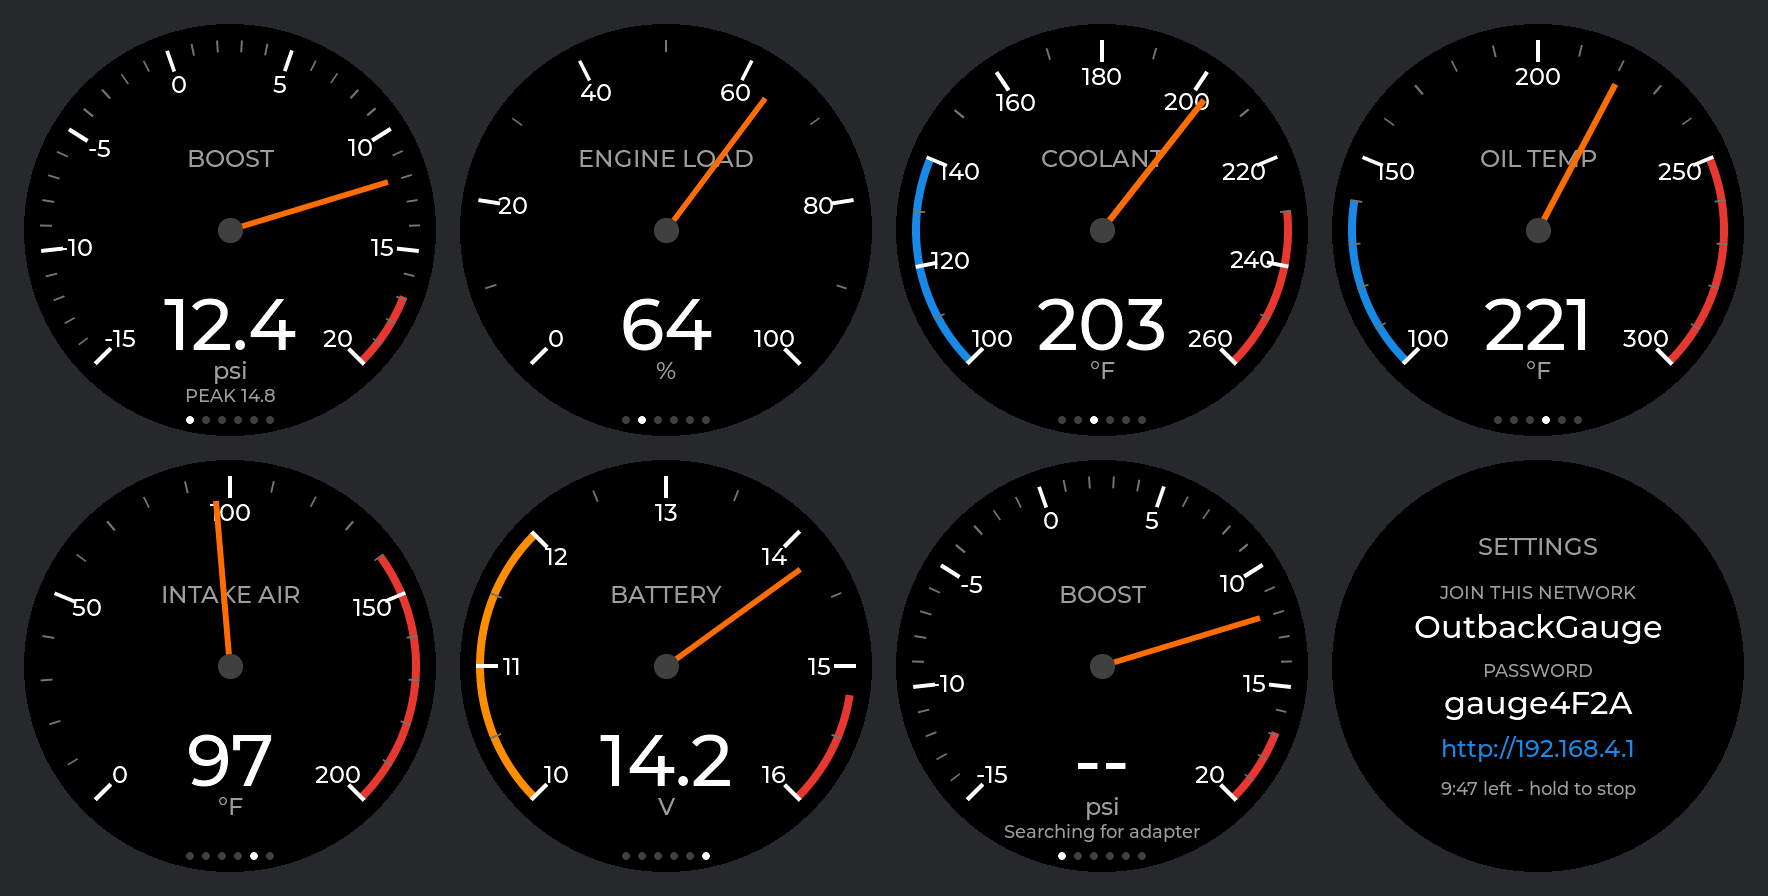
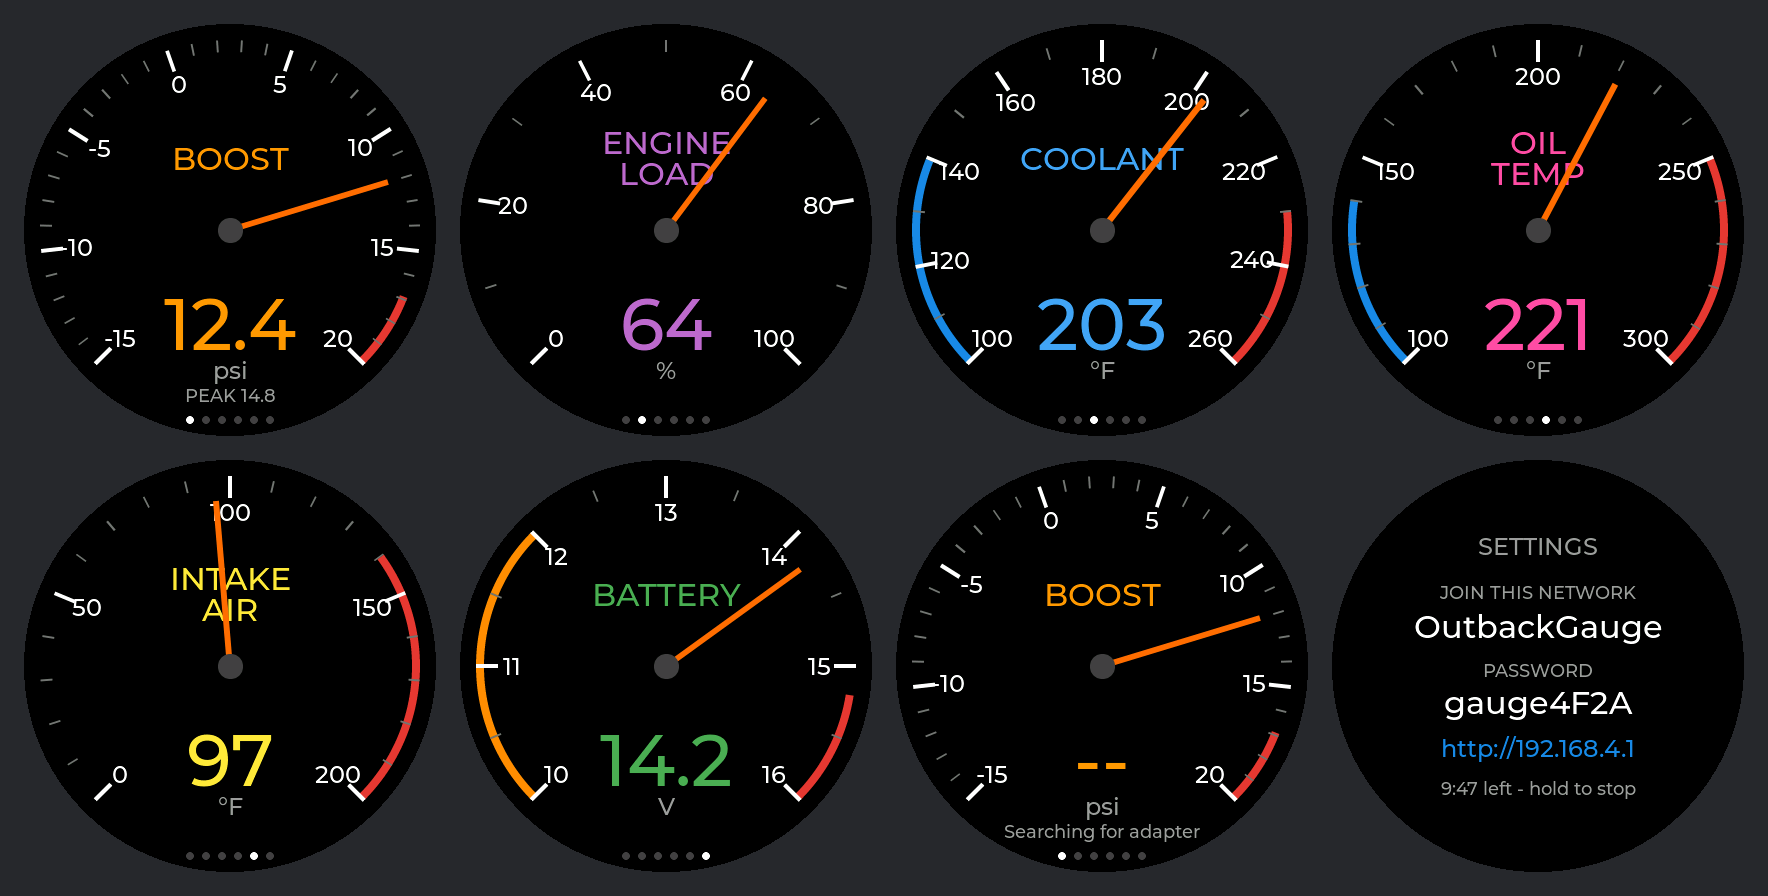
Colour each gauge's readout and title; 0.5 s double tap
Boost orange, load purple, coolant blue, oil pink, intake yellow, battery
green; red stays for warnings. Titles go to 32 px, on two rows where long.

diff --git a/src/ui.cpp b/src/ui.cpp
@@ -17,6 +17,8 @@ namespace {
 
 constexpr lv_coord_t C = LCD_SIZE / 2;  // screen center
 constexpr uint32_t WHITE = 0xFFFFFF, GREY = 0x9E9E9E, RED = 0xE53935, AMBER = 0xFB8C00, BLUE = 0x1E88E5;
+constexpr uint32_t TEXT_GREEN = 0x4CAF50, TEXT_ORANGE = 0xFF9800, TEXT_BLUE = 0x42A5F5, TEXT_PINK = 0xFF4FA3,
+                   TEXT_YELLOW = 0xFFEB3B, TEXT_PURPLE = 0xBA68C8;
 #define DEG "\xC2\xB0"
 
 // A coloured arc on the scale. One endpoint can be driven by a setting, so the
@@ -34,14 +36,15 @@ struct GaugeCfg {
   int ticks, majorEvery;  // tick count across the whole scale, label every Nth tick
   Band bands[2];
   Focus focus;
+  uint32_t color;  // the readout's colour; red is kept for a warning
 };
 
-const GaugeCfg BOOST = {"BOOST", "psi", "%.1f", -15, 20, 1, 36, 5, {{0, 20, RED, &Settings::boostWarnPsi}, {}}, Focus::Boost};
-const GaugeCfg LOAD = {"ENGINE LOAD", "%", "%.0f", 0, 100, 1, 11, 2, {{}, {}}, Focus::Load};
-const GaugeCfg COOLANT = {"COOLANT", DEG "F", "%.0f", 100, 260, 1, 17, 2, {{100, 140, BLUE}, {0, 260, RED, &Settings::coolantWarnF}}, Focus::Coolant};
-const GaugeCfg OIL = {"OIL TEMP", DEG "F", "%.0f", 100, 300, 1, 21, 5, {{100, 140, BLUE}, {0, 300, RED, &Settings::oilWarnF}}, Focus::Oil};
-const GaugeCfg INTAKE = {"INTAKE AIR", DEG "F", "%.0f", 0, 200, 1, 21, 5, {{0, 200, RED, &Settings::intakeWarnF}, {}}, Focus::Intake};
-const GaugeCfg VOLTS = {"BATTERY", "V", "%.1f", 10, 16, 10, 13, 2, {{10, 0, AMBER, &Settings::voltsLowWarn, false}, {0, 16, RED, &Settings::voltsHighWarn}}, Focus::Volts};
+const GaugeCfg BOOST = {"BOOST", "psi", "%.1f", -15, 20, 1, 36, 5, {{0, 20, RED, &Settings::boostWarnPsi}, {}}, Focus::Boost, TEXT_ORANGE};
+const GaugeCfg LOAD = {"ENGINE\nLOAD", "%", "%.0f", 0, 100, 1, 11, 2, {{}, {}}, Focus::Load, TEXT_PURPLE};
+const GaugeCfg COOLANT = {"COOLANT", DEG "F", "%.0f", 100, 260, 1, 17, 2, {{100, 140, BLUE}, {0, 260, RED, &Settings::coolantWarnF}}, Focus::Coolant, TEXT_BLUE};
+const GaugeCfg OIL = {"OIL\nTEMP", DEG "F", "%.0f", 100, 300, 1, 21, 5, {{100, 140, BLUE}, {0, 300, RED, &Settings::oilWarnF}}, Focus::Oil, TEXT_PINK};
+const GaugeCfg INTAKE = {"INTAKE\nAIR", DEG "F", "%.0f", 0, 200, 1, 21, 5, {{0, 200, RED, &Settings::intakeWarnF}, {}}, Focus::Intake, TEXT_YELLOW};
+const GaugeCfg VOLTS = {"BATTERY", "V", "%.1f", 10, 16, 10, 13, 2, {{10, 0, AMBER, &Settings::voltsLowWarn, false}, {0, 16, RED, &Settings::voltsHighWarn}}, Focus::Volts, TEXT_GREEN};
 
 struct Gauge {
   const GaugeCfg *cfg = nullptr;
@@ -157,7 +160,9 @@ Gauge makeGauge(const GaugeCfg &cfg) {
   g.screen = newScreen();
 
   // Created before the meter so the needle sweeps over it.
-  lv_label_set_text(label(g.screen, &lv_font_montserrat_24, GREY, 0, -72), cfg.title);
+  lv_obj_t *title = label(g.screen, &lv_font_montserrat_32, cfg.color, 0, -72);
+  lv_obj_set_style_text_line_space(title, -4, 0);
+  lv_label_set_text(title, cfg.title);
 
   g.meter = lv_meter_create(g.screen);
   lv_obj_set_size(g.meter, LCD_SIZE - 12, LCD_SIZE - 12);
@@ -205,7 +210,7 @@ void setGauge(Gauge &g, bool isFresh, float v, bool warn, const char *status) {
   } else {
     setText(g.value, "--");
   }
-  setColor(g.value, isFresh && warn ? RED : WHITE);
+  setColor(g.value, isFresh && warn ? RED : g.cfg->color);
   setText(g.status, millis() < toastUntil ? toastText : status);
 }
 

diff --git a/tools/gesture-test/gesture_test.cpp b/tools/gesture-test/gesture_test.cpp
@@ -34,7 +34,7 @@ int main() {
     {"hold 800ms (too long for tap, too short for long)", hold(40, 200, 200) + lift(200, 200), "None"},
     {"drag then hold still (no long press)", drag(100, 200, 300, 200, 10) + hold(60, 300, 200), "None"},
     {"intermittent reports while held", sparse(6, 200, 200, 3) + lift(200, 200), "Tap"},
-    {"two taps far apart", hold(4, 200, 200) + lift(200, 200) + std::vector<Sample>(25, {false,false,0,0}) + hold(4, 150, 150) + lift(150, 150), "Tap,Tap"},
+    {"two taps far apart", hold(4, 200, 200) + lift(200, 200) + std::vector<Sample>(40, {false,false,0,0}) + hold(4, 150, 150) + lift(150, 150), "Tap,Tap"},
     {"double tap", hold(4, 200, 200) + lift(200, 200) + std::vector<Sample>(5, {false,false,0,0}) + hold(4, 150, 150) + lift(150, 150), "Tap,DoubleTap"},
     {"triple tap", hold(4, 200, 200) + lift(200, 200) + std::vector<Sample>(5, {false,false,0,0}) + hold(4, 150, 150) + lift(150, 150) + std::vector<Sample>(5, {false,false,0,0}) + hold(4, 150, 150) + lift(150, 150), "Tap,DoubleTap,Tap"},
   };

diff --git a/src/gesture.h b/src/gesture.h
@@ -12,7 +12,7 @@ class GestureDetector {
   static constexpr int TAP_SLOP = 30;          // px a tap or long press may wander
   static constexpr uint32_t TAP_MAX_MS = 700;
   static constexpr uint32_t LONG_MS = 900;
-  static constexpr uint32_t DOUBLE_MS = 350;    // second tap this soon after the first is a double tap
+  static constexpr uint32_t DOUBLE_MS = 500;    // second tap this soon after the first is a double tap
   static constexpr uint32_t LIFT_GAP_MS = 150;  // no reports for this long counts as lifted
 
   // report: a point report was read this poll; down: finger on the glass
